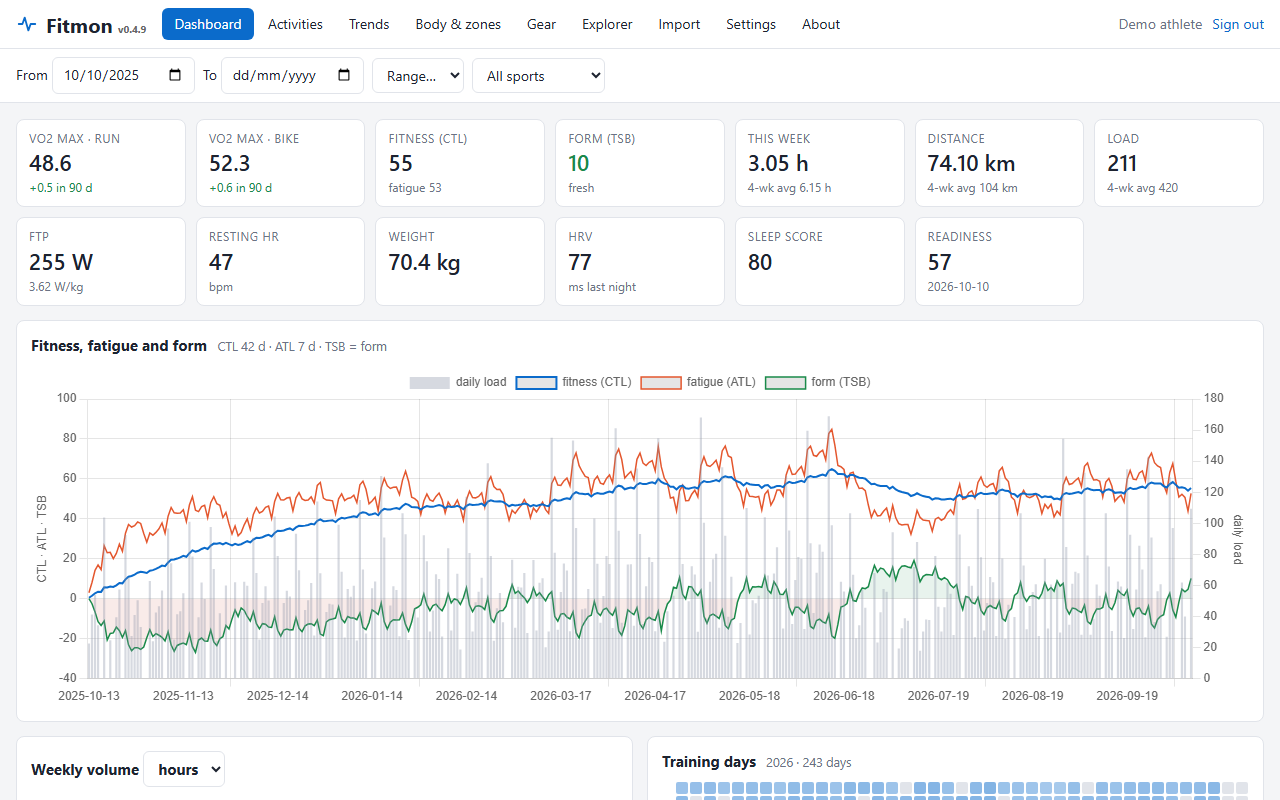
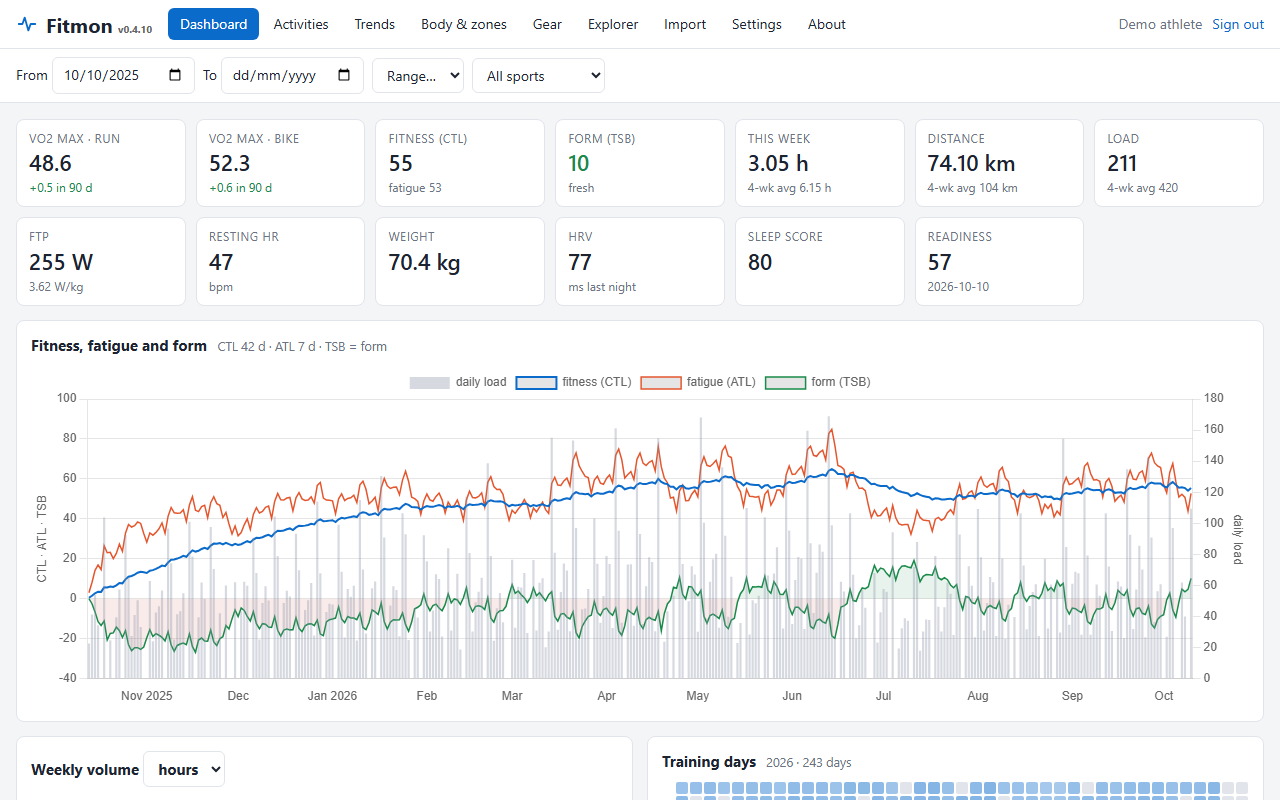
fitmon 0.4.10: date axes mark month starts
Date axes labelled whichever days Chart.js skipped to - 2025-10-13, 2025-11-13 -
so it was hard to tell where in the year anything was. Every date-based chart now
marks the start of each month with a short name and a gridline, with the year on
January and on the first mark; spans over 15 months thin to quarters, over 40 to
years, and under two months fall back to a few plain days. Tooltips still give
the exact date. The monthly and weekly volume bars get the same labels instead
of rotated yyyy-mm.

Screenshot recaptured.

diff --git a/app/static/js/app.js b/app/static/js/app.js
@@ -176,7 +176,9 @@ async function initHeaderSync() {
 function volumeChart(id, data, metric) {
     chart(id, {type: 'bar', data: {labels: data.buckets, datasets: data.sports.map((sp, i) => ({label: fmt.sport(sp), backgroundColor: color(sp, i),
         data: data.data[sp].map((c) => (c ? c[metric] : 0))}))},
-        options: {scales: {x: {stacked: true}, y: {stacked: true, title: {display: true, text: metric}}}}});
+        // Weekly buckets are dates and monthly ones yyyy-mm, so both get month marks; yearly ones are plain years.
+        options: {scales: {x: String(data.buckets[0] || '').length > 4 ? timeAxis({stacked: true}) : {stacked: true},
+                           y: {stacked: true, title: {display: true, text: metric}}}}});
 }
 async function loadDashboard() {
     const [d, fit, vol, cal] = await Promise.all([api('/api/dashboard'), api('/api/fitness?' + range()),
@@ -212,7 +214,7 @@ async function loadDashboard() {
         {type: 'line', label: 'form (TSB)', data: fit.tsb, borderColor: '#1a8a4a', pointRadius: 0, borderWidth: 1.5, yAxisID: 'y', fill: {target: 'origin', above: 'rgba(26,138,74,.10)', below: 'rgba(192,57,43,.10)'}}]},
         // Name both axes: with only y1 declared, Chart.js bound every dataset to it and drew an
         // empty 0-1 'y' axis on the left.
-        options: {scales: {x: {ticks: {maxTicksLimit: 12}}, y: {position: 'left', title: {display: true, text: 'CTL · ATL · TSB'}},
+        options: {scales: {x: timeAxis(), y: {position: 'left', title: {display: true, text: 'CTL · ATL · TSB'}},
                            y1: {position: 'right', grid: {drawOnChartArea: false}, title: {display: true, text: 'daily load'}}}}});
     state.dashVolume = vol; volumeChart('dash-volume-chart', vol, $('dash-volume-metric').value);
 
@@ -491,7 +493,41 @@ function paintTrack() {
 
 // ---------------------------------------------------------------- trends
 const scatterLine = (label, pts, col, extra = {}) => Object.assign({label, data: pts, borderColor: col, backgroundColor: col, pointRadius: 3, showLine: true, borderWidth: 1.3, tension: .2}, extra);
-const timeAxis = () => ({type: 'category', ticks: {maxTicksLimit: 12}});
+// Date axes: the labels are ISO days, one per point. Instead of letting Chart.js label whichever
+// days it skips to (the 13th, the 17th...), mark where each month starts - a short month name
+// and a gridline - with the year on January and on the first mark. Long spans thin out to
+// quarters, then years. The tooltip still shows the exact day.
+const MONTHS = ['Jan', 'Feb', 'Mar', 'Apr', 'May', 'Jun', 'Jul', 'Aug', 'Sep', 'Oct', 'Nov', 'Dec'];
+const monthMarkCache = new WeakMap();
+function monthMarks(labels) {
+    if (monthMarkCache.has(labels)) return monthMarkCache.get(labels);
+    const starts = []; let prev = null;
+    labels.forEach((l, i) => { const m = String(l).slice(0, 7); if (/^\d{4}-\d{2}$/.test(m) && m !== prev) { starts.push([i, m]); prev = m; } });
+    // The first point is rarely the 1st of its month; marking it would put "Oct" on 10 October.
+    if (starts.length > 1 && starts[0][0] === 0 && String(labels[0]).slice(8, 10) > '07') starts.shift();
+    let marks = null;
+    if (starts.length >= 2) {
+        const step = starts.length <= 15 ? 1 : starts.length <= 40 ? 3 : 12;
+        marks = new Map();
+        for (const [i, m] of starts) {
+            const year = m.slice(0, 4), mon = +m.slice(5, 7);
+            if ((mon - 1) % step) continue;
+            marks.set(i, step === 12 ? year : (mon === 1 || !marks.size) ? `${MONTHS[mon - 1]} ${year}` : MONTHS[mon - 1]);
+        }
+    }
+    monthMarkCache.set(labels, marks);
+    return marks;
+}
+const timeAxis = (extra = {}) => Object.assign({type: 'category',
+    ticks: {autoSkip: false, maxRotation: 0, callback(value, index) {
+        const labels = this.chart.data.labels, marks = monthMarks(labels);
+        if (marks) return marks.get(index) ?? null;
+        // Under two months of data: plain days, thinned to about eight.
+        const every = Math.max(1, Math.ceil(labels.length / 8));
+        return index % every ? null : String(labels[index]).slice(5, 10);
+    }},
+    grid: {color: (ctx) => { const marks = monthMarks(ctx.chart.data.labels);
+        return !marks || marks.has(ctx.index) ? 'rgba(128,128,128,.28)' : 'transparent'; }}}, extra);
 async function loadTrends() {
     const q = query(), rq = range().toString(), sportOnly = $('flt-sport').value ? `sport=${$('flt-sport').value}&` : '';
     const [vo2, vol, pc, best, te, swim, strength, body] = await Promise.all([api('/api/trends/vo2max?' + q), api(`/api/trends/volume?bucket=${$('tr-volume-bucket').value}&` + rq),
@@ -522,7 +558,7 @@ async function loadTrends() {
         options: {scales: {x: timeAxis(), y: {reverse: true, title: {display: true, text: 'faster ↑'}}, y1: {position: 'right', grid: {drawOnChartArea: false}}}}});
     const sdays = [...new Set(Object.values(strength.categories).flat().map((x) => x.day))].sort();
     chart('tr-strength-chart', {type: 'bar', data: {labels: sdays, datasets: Object.entries(strength.categories).map(([cat, rows], i) => ({label: fmt.sport(cat), backgroundColor: `hsl(${i * 47 % 360}, 60%, 50%)`, data: sdays.map((d) => (rows.find((r) => r.day === d) || {}).volume_kg || 0)}))},
-        options: {scales: {x: {stacked: true, ticks: {maxTicksLimit: 12}}, y: {stacked: true}}}});
+        options: {scales: {x: timeAxis({stacked: true}), y: {stacked: true}}}});
     const daily = body.series.daily; $('tr-recovery-panel').style.display = daily.length ? '' : 'none';
     if (daily.length) { const fit = await api('/api/fitness?' + rq), load = Object.fromEntries(fit.days.map((d, i) => [d, fit.atl[i]])), rows = daily.filter((h) => (!$('flt-from').value || h.day >= $('flt-from').value));
         chart('tr-recovery-chart', {data: {labels: rows.map((h) => h.day), datasets: [{type: 'line', label: 'fatigue (ATL)', data: rows.map((h) => load[h.day] ?? null), borderColor: '#e4572e', pointRadius: 0, yAxisID: 'y1', spanGaps: true},

diff --git a/app/__init__.py b/app/__init__.py
@@ -7,7 +7,7 @@ from werkzeug.middleware.proxy_fix import ProxyFix
 
 from flask.json.provider import DefaultJSONProvider
 
-__version__ = '0.4.9'
+__version__ = '0.4.10'
 
 
 class _IsoJSONProvider(DefaultJSONProvider):
